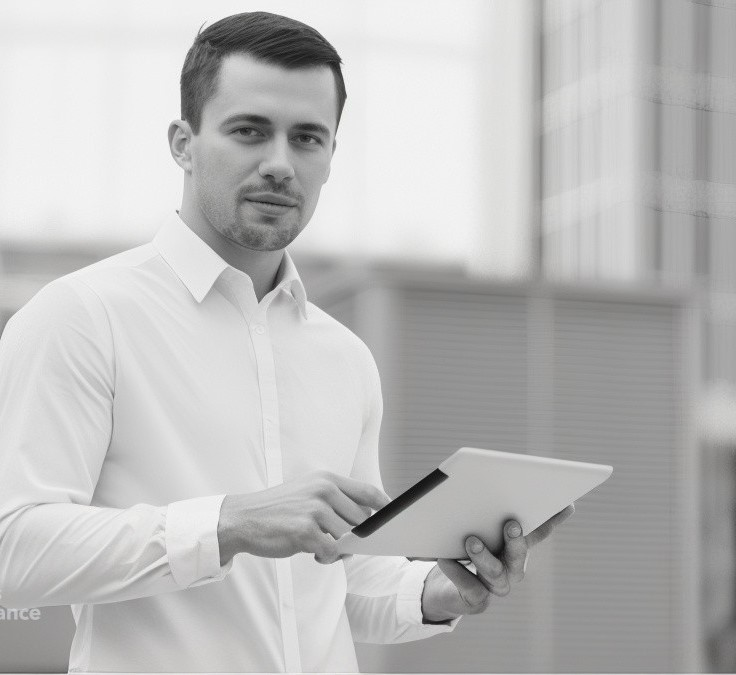
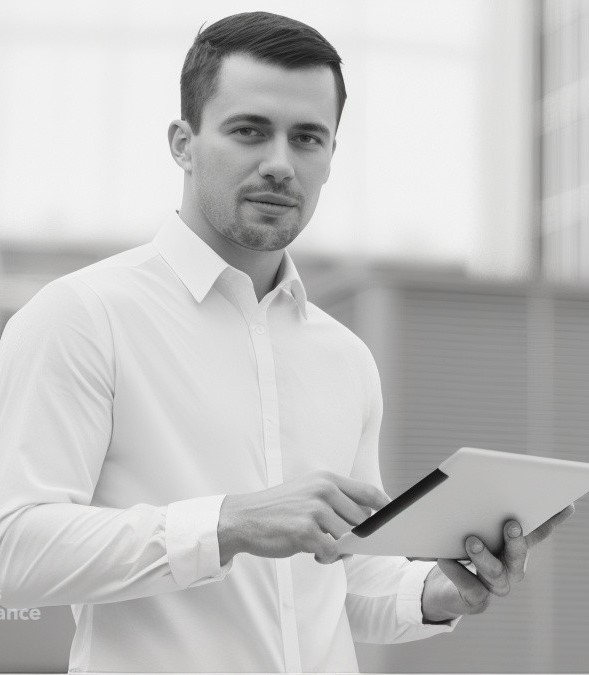
finish coding and styles for about-us section

diff --git a/index.html b/index.html
@@ -59,12 +59,47 @@
                             <p class="home__caption">Freelancer Web/ Mobile UI/UX Designer with Motion Graphics</p>
                             <div class="home__links-wrapper">
                                 <a href="#" class="app-btn home__link">Hire Me</a>
-                                <a href="#" class="app-btn app-btn--orange home__link">Get Resume</a>
+                                <a href="#" class="app-btn home__link home__link--orange">Get Resume</a>
                             </div>
                         </div>
                     </div>
                     <div class="col-12 col-lg-5">
                         <div class="home__avatar"></div>
+                    </div>
+                </div>
+            </div>
+        </section>
+
+        <section class="about-us">
+            <div class="container">
+                <h2 class="section-title about-us__title">About Us</h2>
+                <h3 class="section-subject about-us__subject">Why Choose Me?</h3>
+                <span class="section-line"></span>
+                <div class="about-us__content-wrapper">
+                    <div class="about-us__image-wrapper">
+                        <img src="./images/about-us-pic.jpg" alt="About us picture" class="about-us__image">
+                    </div>
+                    <div class="about-us__content">
+                        <h3 class="about-us__content-title">Why Choose me ?</h3>
+                        <p class="about-us__content-discription">Lorem ipsum, or lipsum as it is sometimes
+                            known, is
+                            dummy text
+                            used in laying out print, graphic or web designs. The passage is
+                            attributed to an unknown typesetter in the 15th century who is
+                            thought to have scrambled parts of Cicero's De Finibus Bonorum
+                            et Malorum for use in a type specimen book.</p>
+                        <h4 class="about-us__tilte-items">Here is Few Features:</h4>
+                        <ul class="about-us__items">
+                            <li class="about-us__item">User Interface Design</li>
+                            <li class="about-us__item">User Experience Design</li>
+                            <li class="about-us__item">Visual Commination Design</li>
+                            <li class="about-us__item">Interaction Design</li>
+                            <li class="about-us__item">Supper Support</li>
+                        </ul>
+                        <div class="about-us__links">
+                            <a href="" class="app-btn about-us__link">Hire Me</a>
+                            <a href="" class="app-btn about-us__link about-us__link--orange">Get Resume</a>
+                        </div>
                     </div>
                 </div>
             </div>

diff --git a/styles/app.css b/styles/app.css
@@ -19,15 +19,57 @@
 */
 .app-btn {
     font-family: "Poppins SemiBold";
-    width: 15rem;
+    width: 17rem;
     height: 5rem;
     color: #fff;
-    background-color: var(--text-color);
+    background-color: var(--primary-color);
     border-radius: 5rem;
     display: flex;
     justify-content: center;
     align-items: center;
     box-shadow: 0 1.6rem 2.9rem rgba(11, 190, 173, 41%);
+}
+
+.section-title {
+    font-family: "Poppins Bold";
+    font-size: 4.8rem;
+    color: var(--primary-color);
+    text-align: center;
+}
+
+.section-subject {
+    letter-spacing: 0.4rem;
+    text-align: center;
+}
+
+.section-line {
+    display: block;
+    width: 3.9rem;
+    height: 1rem;
+    border-radius: 10rem;
+    background-color: var(--primary-color);
+    margin: 2rem auto 9rem auto;
+    position: relative;
+}
+
+.section-line::before,
+.section-line::after {
+    content: ' ';
+    position: absolute;
+    background-color: var(--primary-color);
+    width: 12rem;
+    height: 0.2rem;
+    top: 0;
+    bottom: 0;
+    margin: auto;
+}
+
+.section-line::before {
+    left: -10rem;
+}
+
+.section-line::after {
+    right: -10rem;
 }
 
 /*
@@ -217,7 +259,7 @@ a {
     background-color: var(--primary-color);
 }
 
-.app-btn--orange {
+.home__link--orange {
     background-color: var(--orange-color);
     box-shadow: 0 1.6rem 2.9rem rgba(245, 127, 23, 41%);
 }
@@ -233,3 +275,83 @@ a {
     box-shadow: 0 0 5.9rem rgba(96, 233, 255, 27%);
 }
 
+/*
+    x |About us| x
+*/
+.about-us {
+    margin: 12rem auto;
+    height: 85.5rem;
+}
+
+.about-us__content-wrapper {
+    box-shadow: 0 0 5.9rem rgba(96, 233, 255, 27%);
+    height: 64.8rem;
+    display: flex;
+}
+
+.about-us__image-wrapper {
+    flex-basis: 50%;
+    overflow: hidden;
+}
+
+.about-us__image {
+    width: 100%;
+    height: 100%;
+}
+
+.about-us__content {
+    display: flex;
+    flex-direction: column;
+    flex-basis: 50%;
+    align-items: start;
+    justify-content: center;
+    padding: 0 4rem;
+}
+
+.about-us__content-title {
+    font-family: "Poppins SemiBold";
+    font-size: 2.4rem;
+}
+
+.about-us__content-discription {
+    max-width: 57rem;
+    margin: 2rem 0 6rem 0;
+}
+
+.about-us__tilte-items {
+    font-family: "Poppins SemiBold";
+    font-size: 1.8rem;
+    color: var(--primary-color);
+}
+
+.about-us__items {
+    margin: 1.2rem 0 3.5rem 4.7rem;
+}
+
+.about-us__item {
+    position: relative;
+}
+
+.about-us__item::before {
+    content: '';
+    position: absolute;
+    top: 0;
+    bottom: 0;
+    width: 1.5rem;
+    height: 1.5rem;
+    border-radius: 100%;
+    background-color: var(--orange-color);
+    margin: auto -3rem;
+}
+
+.about-us__links {
+    display: flex;
+    justify-content: center;
+    align-items: center;
+    gap: 2rem;
+}
+
+.about-us__link--orange {
+    background-color: var(--orange-color);
+    box-shadow: 0 1.6rem 2.9rem rgba(245, 127, 23, 41%);
+}
